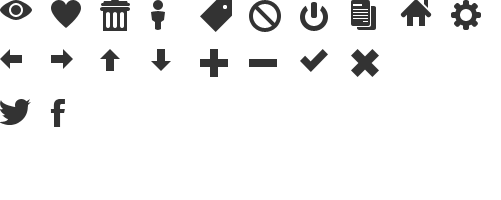
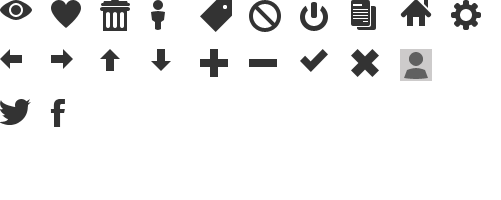
Fixed toolbar

Changed region(s): [[0.7784, 0.24, 0.8683, 0.42]]

diff --git a/public/css/main.css b/public/css/main.css
@@ -11,18 +11,23 @@
 
 /* Structure */
 
+a { color: #333; }
 body { font-family: 'Copse', serif; margin: 0; height: 100%; position: relative; }
 
-#content { position: relative; margin-left: 255px; border-left: #cdcbcb 1px solid; padding: 20px; }
+#main { padding: 0 20px; }
+#content { position: relative; margin-left: 255px; border-left: #cdcbcb 1px solid; }
 #home { background: url(img/logo.png) center center no-repeat; display: block; height: 182px; margin: 20px 0; }
 #home span { display: none; }
+
+.float-right { float: right; }
+.float-left { float: left; }
 
 /* Navigation */
 
 nav { position: absolute; top:0; bottom:0; left:0; height: 100%; width: 255px; background: #fbfbfb;}
 nav ul { list-style-type: none; padding: 0; background: #ff6018; }
 nav b { float: right; position: relative; top: -3px; }
-nav li a { display:block; height: 20px; padding: 15px 20px; border-top: 1px solid white; background: #fbfbfb; color: #333; }
+nav li a { display:block; height: 20px; padding: 15px 20px; border-top: 1px solid white; background: #fbfbfb; }
 nav li a.active { margin-left: 5px; border-color: #cdcbcb; border-style: solid; border-width: 1px 0 1px 0; background: white; position: relative; left: 1px; z-index: 2; }
 nav li a:hover { color: #ff6018 }
 
@@ -55,9 +60,15 @@ form textarea { height: 300px; }
 .button[type=submit] { text-indent: 0; min-width: 90px; padding-bottom: 5px; background: #ff6018; }
 .button[type=submit]:hover { background: #333; }
 
+#login { overflow: hidden; vertical-align: top; border-bottom: 1px solid #cdcbcb; }
+#login .box { min-height: 32px; padding: 5px; float: right; border-left: 1px solid #cdcbcb; }
+#login .box:last-child { border-left: 0; }
+
+#userbox { vertical-align: middle; }
+
 /* Icons */
 
-.icon32 { display: inline-block; background-image: url(img/icons-32.png); width: 32px; height: 32px; }
+.icon32 { display: inline-block; vertical-align: middle; background-image: url(img/icons-32.png); min-width: 32px; min-height: 32px; }
 
 .icon32.preview { background-position: 0 0; }
 .icon32.heart { background-position: -50px 0; }
@@ -65,11 +76,12 @@ form textarea { height: 300px; }
 .icon32.user { background-position: -142px 0; }
 .icon32.tags { background-position: -202px 0; }
 .icon32.forbidden { background-position: -250px 0; }
-.icon32.power { background-position: -300px 0; }
+.icon32.power { background-position: -295px 3px; }
 .icon32.documents { background-position: -347px 0; }
 .icon32.home { background-position: -400px 0; }
-.icon32.gears { background-position: -450px 0; }
+.icon32.gears { background-position: -445px 5px; }
 
+.icon32.anonymous { background-position: -400px -50px; }
 .icon32.left { background-position: 0 -50px; }
 .icon32.right { background-position: -50px -50px; }
 .icon32.top { background-position: -50px 0; }

diff --git a/views/layout.html b/views/layout.html
@@ -6,20 +6,26 @@
     <link rel="stylesheet" href="css/main.css">
   </head>
   <body>
-    <div id="main">
-      <nav>
-        <a href="/" id="home"><span>Home</span></a>
-        <ul id="menu">
-          <li><a href="#dashboard">Dashboard<b class="icon32 home"></b></a></li>
-          <li><a href="#posts">Posts<b class="icon32 documents"></b></a></li>
-          <li><a href="#tags">Tags<b class="icon32 tags"></b></a></li>
-          <li><a href="#users">Users<b class="icon32 user"></b></a></li>
-          <li><a href="#settings">Settings<b class="icon32 gears"></b></a></li>
-        </ul>
-      </nav>
-      <div id="content"></div>
+    <nav>
+      <a href="/" id="home"><span>Home</span></a>
+      <ul id="menu">
+        <li><a href="#dashboard">Dashboard<b class="icon32 home"></b></a></li>
+        <li><a href="#posts">Posts<b class="icon32 documents"></b></a></li>
+        <li><a href="#tags">Tags<b class="icon32 tags"></b></a></li>
+        <li><a href="#users">Users<b class="icon32 user"></b></a></li>
+      </ul>
+    </nav>
+    <div id="content">
+      <div id="login">
+        <a href="#logout" class="box icon32 power"></a>
+        <a href="#settings" class="box icon32 gears"></a>
+        <a id="userbox" href="#login" class="box">
+          <b class="icon32 anonymous"></b>
+          <span>Anonymous</span>
+        </a>
+      </div>
+      <div id="main"></div>
     </div>
-
     <!-- SCRIPTS -->
     <script src="js/lib/underscore.js"></script>
     <script src="js/lib/zepto.js"></script>

diff --git a/public/js/main.js b/public/js/main.js
@@ -41,10 +41,26 @@ App.Tags = Collection.extend({
 
 App.Region = Backbone.View.extend({
 
-  el: '#content',
+  el: '#main',
+
+  initialize: function initialize() {
+    this.onResized();
+    $(window).on('resize', this.onResized.bind(this));
+  },
+
+  getHeight: function() {
+    var inner = window.innerHeight;
+    var doc = document.height;
+    return inner < doc ? inner : doc;
+  },
+
+  onResized: function onResized() {
+    this.$el.css('min-height',this.getHeight());
+  },
 
   setContent: function(view) {
     this.$el.empty().append(view.$el);
+    this.onResized();
   }
 
 });
@@ -290,7 +306,8 @@ App.Router = Backbone.Router.extend({
     "users/:slug":  "users",
     "new/posts":     "createPost",
     "new/tags":      "createTag",
-    "new/users":     "createUser"
+    "new/users":     "createUser",
+    "login":          "login"
   },
 
   initialize: function initialize() {
@@ -348,19 +365,16 @@ App.Router = Backbone.Router.extend({
   createUser: function createUser() {
     App.userForm.unload();
     App.region.setContent(App.userForm);
-  }
+  },
 
+  login: function login() {
+
+  }
 
 });
 
 
 $(function() {
-  var content = $('#content');
-
-  function onResized() {
-    content.css('height', document.height);
-  }
-
   App.users = new App.Users();
   App.posts = new App.Posts();
   App.tags = new App.Tags();
@@ -433,7 +447,5 @@ $(function() {
    App.menuView.select(route.split(':')[1]);
   });
 
-  onResized();
-  window.onresize = onResized;
   Backbone.history.start();
 });
